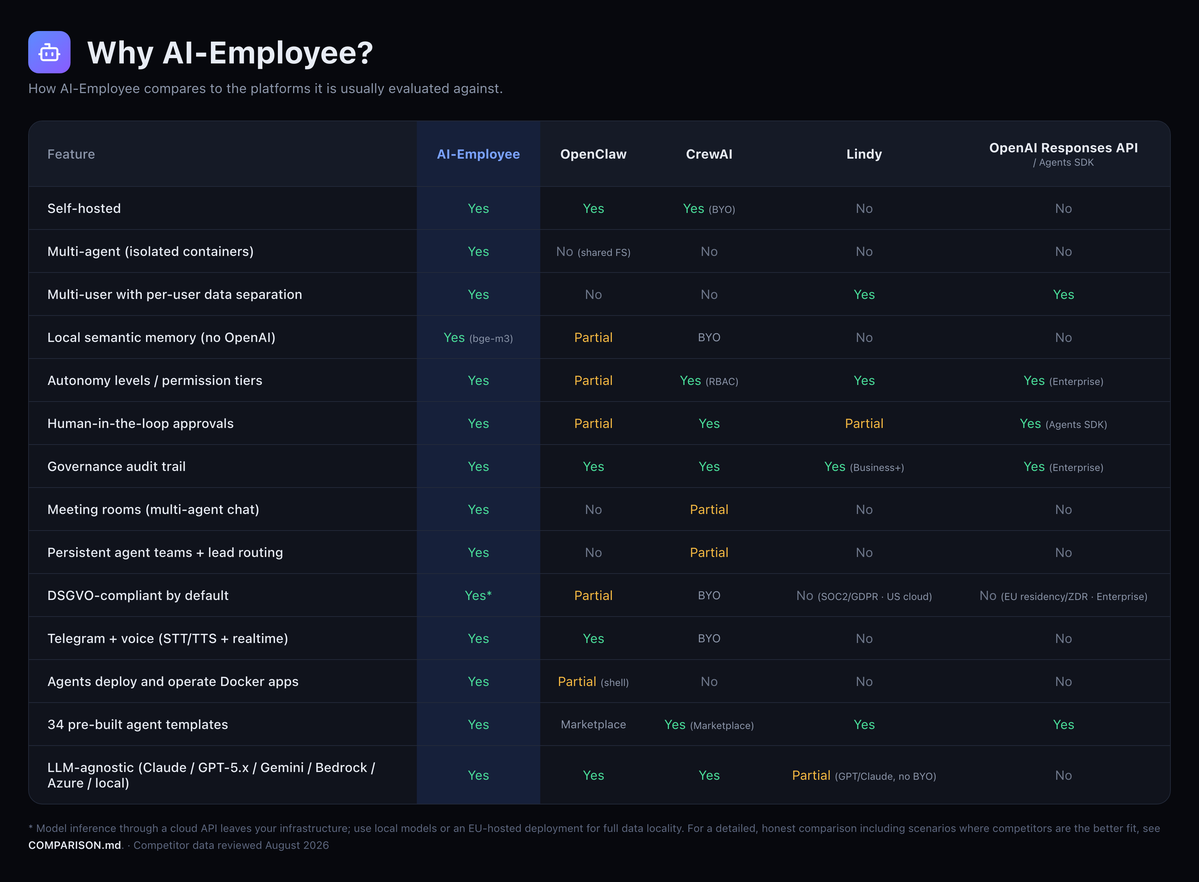
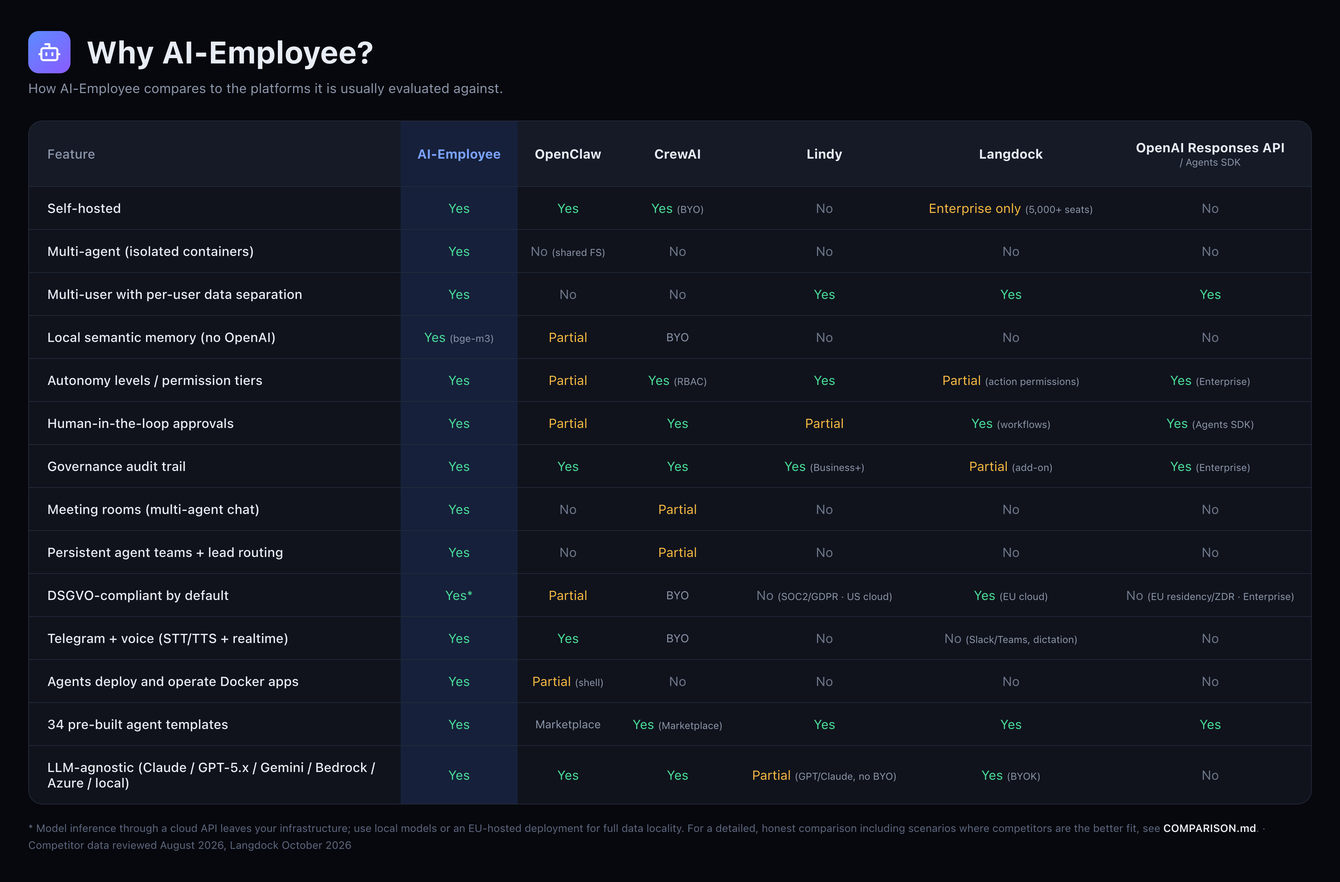
docs(vergleich): Langdock in Vergleichsdokument, README und Grafik aufgenommen; eigene Angaben berichtigt (v1.352.1)

diff --git a/docs/assets-src/comparison.html b/docs/assets-src/comparison.html
@@ -2,13 +2,13 @@
 <html lang="en"><head><meta charset="utf-8"><title>Why AI-Employee?</title>
 <link rel="stylesheet" href="base.css">
 <style>
-body{width:1700px}
+body{width:1900px}
 table{width:100%;border-collapse:separate;border-spacing:0;background:var(--panel);border:1px solid var(--line);border-radius:20px;overflow:hidden;font-size:18.5px}
 thead th{padding:26px 18px;font-weight:650;text-align:center;border-bottom:1px solid var(--line);background:var(--panel-2)}
 thead th:first-child{text-align:left;padding-left:26px;font-weight:500;color:var(--muted)}
 thead th.wir{color:var(--accent);background:var(--accent-bg)}
 thead small{display:block;font-weight:400;color:var(--muted);font-size:14px;margin-top:2px}
-tbody th{text-align:left;font-weight:450;padding:19px 26px;border-bottom:1px solid var(--line);width:34%}
+tbody th{text-align:left;font-weight:450;padding:19px 26px;border-bottom:1px solid var(--line);width:29%}
 td{text-align:center;padding:19px 14px;border-bottom:1px solid var(--line)}
 tbody tr:last-child th,tbody tr:last-child td{border-bottom:0}
 td.wir{background:var(--accent-bg)}
@@ -18,6 +18,6 @@ td small{color:var(--muted);font-size:14px}
 <body>
 <header><div class="mark"><svg viewBox="0 0 24 24"><path d="M12 8V4H8"/><rect width="16" height="12" x="4" y="8" rx="2"/><path d="M2 14h2"/><path d="M20 14h2"/><path d="M15 13v2"/><path d="M9 13v2"/></svg></div><h1>Why AI-Employee?</h1></header>
 <p class="sub">How AI-Employee compares to the platforms it is usually evaluated against.</p>
-<table><thead><tr><th>Feature</th><th class="wir">AI-Employee</th><th>OpenClaw</th><th>CrewAI</th><th>Lindy</th><th>OpenAI Responses API<small>/ Agents SDK</small></th></tr></thead><tbody><tr><th>Self-hosted</th><td class="y wir">Yes</td><td class="y">Yes</td><td class="y">Yes <small>(BYO)</small></td><td class="n">No</td><td class="n">No</td></tr><tr><th>Multi-agent (isolated containers)</th><td class="y wir">Yes</td><td class="n">No <small>(shared FS)</small></td><td class="n">No</td><td class="n">No</td><td class="n">No</td></tr><tr><th>Multi-user with per-user data separation</th><td class="y wir">Yes</td><td class="n">No</td><td class="n">No</td><td class="y">Yes</td><td class="y">Yes</td></tr><tr><th>Local semantic memory (no OpenAI)</th><td class="y wir">Yes <small>(bge-m3)</small></td><td class="p">Partial</td><td class="t">BYO</td><td class="n">No</td><td class="n">No</td></tr><tr><th>Autonomy levels / permission tiers</th><td class="y wir">Yes</td><td class="p">Partial</td><td class="y">Yes <small>(RBAC)</small></td><td class="y">Yes</td><td class="y">Yes <small>(Enterprise)</small></td></tr><tr><th>Human-in-the-loop approvals</th><td class="y wir">Yes</td><td class="p">Partial</td><td class="y">Yes</td><td class="p">Partial</td><td class="y">Yes <small>(Agents SDK)</small></td></tr><tr><th>Governance audit trail</th><td class="y wir">Yes</td><td class="y">Yes</td><td class="y">Yes</td><td class="y">Yes <small>(Business+)</small></td><td class="y">Yes <small>(Enterprise)</small></td></tr><tr><th>Meeting rooms (multi-agent chat)</th><td class="y wir">Yes</td><td class="n">No</td><td class="p">Partial</td><td class="n">No</td><td class="n">No</td></tr><tr><th>Persistent agent teams + lead routing</th><td class="y wir">Yes</td><td class="n">No</td><td class="p">Partial</td><td class="n">No</td><td class="n">No</td></tr><tr><th>DSGVO-compliant by default</th><td class="y wir">Yes*</td><td class="p">Partial</td><td class="t">BYO</td><td class="n">No <small>(SOC2/GDPR · US cloud)</small></td><td class="n">No <small>(EU residency/ZDR · Enterprise)</small></td></tr><tr><th>Telegram + voice (STT/TTS + realtime)</th><td class="y wir">Yes</td><td class="y">Yes</td><td class="t">BYO</td><td class="n">No</td><td class="n">No</td></tr><tr><th>Agents deploy and operate Docker apps</th><td class="y wir">Yes</td><td class="p">Partial <small>(shell)</small></td><td class="n">No</td><td class="n">No</td><td class="n">No</td></tr><tr><th>34 pre-built agent templates</th><td class="y wir">Yes</td><td class="t">Marketplace</td><td class="y">Yes <small>(Marketplace)</small></td><td class="y">Yes</td><td class="y">Yes</td></tr><tr><th>LLM-agnostic (Claude / GPT-5.x / Gemini / Bedrock / Azure / local)</th><td class="y wir">Yes</td><td class="y">Yes</td><td class="y">Yes</td><td class="p">Partial <small>(GPT/Claude, no BYO)</small></td><td class="n">No</td></tr></tbody></table>
-<p class="foot">* Model inference through a cloud API leaves your infrastructure; use local models or an EU-hosted deployment for full data locality. For a detailed, honest comparison including scenarios where competitors are the better fit, see <b>COMPARISON.md</b>. · Competitor data reviewed August 2026</p>
+<table><thead><tr><th>Feature</th><th class="wir">AI-Employee</th><th>OpenClaw</th><th>CrewAI</th><th>Lindy</th><th>Langdock</th><th>OpenAI Responses API<small>/ Agents SDK</small></th></tr></thead><tbody><tr><th>Self-hosted</th><td class="y wir">Yes</td><td class="y">Yes</td><td class="y">Yes <small>(BYO)</small></td><td class="n">No</td><td class="p">Enterprise only <small>(5,000+ seats)</small></td><td class="n">No</td></tr><tr><th>Multi-agent (isolated containers)</th><td class="y wir">Yes</td><td class="n">No <small>(shared FS)</small></td><td class="n">No</td><td class="n">No</td><td class="n">No</td><td class="n">No</td></tr><tr><th>Multi-user with per-user data separation</th><td class="y wir">Yes</td><td class="n">No</td><td class="n">No</td><td class="y">Yes</td><td class="y">Yes</td><td class="y">Yes</td></tr><tr><th>Local semantic memory (no OpenAI)</th><td class="y wir">Yes <small>(bge-m3)</small></td><td class="p">Partial</td><td class="t">BYO</td><td class="n">No</td><td class="n">No</td><td class="n">No</td></tr><tr><th>Autonomy levels / permission tiers</th><td class="y wir">Yes</td><td class="p">Partial</td><td class="y">Yes <small>(RBAC)</small></td><td class="y">Yes</td><td class="p">Partial <small>(action permissions)</small></td><td class="y">Yes <small>(Enterprise)</small></td></tr><tr><th>Human-in-the-loop approvals</th><td class="y wir">Yes</td><td class="p">Partial</td><td class="y">Yes</td><td class="p">Partial</td><td class="y">Yes <small>(workflows)</small></td><td class="y">Yes <small>(Agents SDK)</small></td></tr><tr><th>Governance audit trail</th><td class="y wir">Yes</td><td class="y">Yes</td><td class="y">Yes</td><td class="y">Yes <small>(Business+)</small></td><td class="p">Partial <small>(add-on)</small></td><td class="y">Yes <small>(Enterprise)</small></td></tr><tr><th>Meeting rooms (multi-agent chat)</th><td class="y wir">Yes</td><td class="n">No</td><td class="p">Partial</td><td class="n">No</td><td class="n">No</td><td class="n">No</td></tr><tr><th>Persistent agent teams + lead routing</th><td class="y wir">Yes</td><td class="n">No</td><td class="p">Partial</td><td class="n">No</td><td class="n">No</td><td class="n">No</td></tr><tr><th>DSGVO-compliant by default</th><td class="y wir">Yes*</td><td class="p">Partial</td><td class="t">BYO</td><td class="n">No <small>(SOC2/GDPR · US cloud)</small></td><td class="y">Yes <small>(EU cloud)</small></td><td class="n">No <small>(EU residency/ZDR · Enterprise)</small></td></tr><tr><th>Telegram + voice (STT/TTS + realtime)</th><td class="y wir">Yes</td><td class="y">Yes</td><td class="t">BYO</td><td class="n">No</td><td class="n">No <small>(Slack/Teams, dictation)</small></td><td class="n">No</td></tr><tr><th>Agents deploy and operate Docker apps</th><td class="y wir">Yes</td><td class="p">Partial <small>(shell)</small></td><td class="n">No</td><td class="n">No</td><td class="n">No</td><td class="n">No</td></tr><tr><th>34 pre-built agent templates</th><td class="y wir">Yes</td><td class="t">Marketplace</td><td class="y">Yes <small>(Marketplace)</small></td><td class="y">Yes</td><td class="y">Yes</td><td class="y">Yes</td></tr><tr><th>LLM-agnostic (Claude / GPT-5.x / Gemini / Bedrock / Azure / local)</th><td class="y wir">Yes</td><td class="y">Yes</td><td class="y">Yes</td><td class="p">Partial <small>(GPT/Claude, no BYO)</small></td><td class="y">Yes <small>(BYOK)</small></td><td class="n">No</td></tr></tbody></table>
+<p class="foot">* Model inference through a cloud API leaves your infrastructure; use local models or an EU-hosted deployment for full data locality. For a detailed, honest comparison including scenarios where competitors are the better fit, see <b>COMPARISON.md</b>. · Competitor data reviewed August 2026, Langdock October 2026</p>
 </body></html>

diff --git a/COMPARISON.md b/COMPARISON.md
@@ -1,6 +1,6 @@
 # AI-Employee vs. The Field
 
-> **Stand: 01.08.2026** — Feature-Matrix und Bewertungen entsprechen dem Entwicklungsstand zu diesem Datum. Star-Zahlen und Fremdprodukt-Details sind grobe Momentaufnahmen.
+> **Stand: 02.10.2026** — Feature-Matrix und Bewertungen entsprechen dem Entwicklungsstand zu diesem Datum (Langdock: Herstellerseiten und Dokumentation, abgerufen am 02.10.2026; übrige Fremdprodukte: 01.08.2026). Star-Zahlen und Fremdprodukt-Details sind grobe Momentaufnahmen.
 
 An honest, detailed comparison of AI-Employee against the most common alternatives. We believe comparisons should help you pick the *right* tool — not trick you into picking ours.
 
@@ -23,6 +23,7 @@ If you are evaluating AI agent platforms for:
 | **OpenClaw** | Messaging-first personal AI | Peter Steinberger | 60,000+ |
 | **CrewAI** | Python multi-agent framework | João Moura | 25,000+ |
 | **Lindy.ai** | Cloud no-code AI builder | Flo Crivello | Closed-source |
+| **Langdock** | EU cloud AI workspace (chat, agents, workflows) | Langdock GmbH (Berlin) | Closed-source |
 | **OpenAI Responses API / Agents SDK** | Cloud AI assistants (formerly GPTs / Assistants API — Assistants API shuts down 2026-08-26) | OpenAI | Closed-source |
 | **LangGraph** | Graph-based agent framework | LangChain Inc. | 9,000+ |
 | **AutoGen** | Multi-agent research framework | Microsoft Research | 35,000+ |
@@ -36,97 +37,97 @@ If you are evaluating AI agent platforms for:
 
 ### Core Architecture
 
-| Feature | AI-Employee | OpenClaw | CrewAI | Lindy | OpenAI | LangGraph | AutoGen | n8n |
-|---|:---:|:---:|:---:|:---:|:---:|:---:|:---:|:---:|
-| Self-hostable | Yes | Yes | Yes | **No** | **No** | Yes | Yes | Yes |
-| Open source | Source available | Yes | Yes (MIT) | **No** | **No** | Yes (MIT) | Yes (MIT) | Yes (Fair-Code) |
-| Multi-agent | Yes | **No** | Yes | Partial | Partial | Yes | Yes | No |
-| Persistent agent teams + lead-routing | **Yes** | No | Partial | No | No | Partial | Partial | No |
-| Docker isolation per agent | **Yes** | No (shared FS) | No | N/A | N/A | No | No | No |
-| Multi-user / team | Yes | Partial | No | Yes | Yes | No | No | Yes |
-| Cloud option available | Planned | Yes | Cloud only | Yes | Yes | No | No | Yes |
-| Runs fully offline | Yes (with local LLM) | Partial | Yes | No | No | Yes | Yes | Yes |
+| Feature | AI-Employee | OpenClaw | CrewAI | Lindy | Langdock | OpenAI | LangGraph | AutoGen | n8n |
+|---|:---:|:---:|:---:|:---:|:---:|:---:|:---:|:---:|:---:|
+| Self-hostable | Yes | Yes | Yes | **No** | Enterprise only (5,000+ seats) | **No** | Yes | Yes | Yes |
+| Open source | Source available | Yes | Yes (MIT) | **No** | **No** | **No** | Yes (MIT) | Yes (MIT) | Yes (Fair-Code) |
+| Multi-agent | Yes | **No** | Yes | Partial | Partial (agents as workflow steps) | Partial | Yes | Yes | No |
+| Persistent agent teams + lead-routing | **Yes** | No | Partial | No | No | No | Partial | Partial | No |
+| Docker isolation per agent | **Yes** | No (shared FS) | No | N/A | N/A | N/A | No | No | No |
+| Multi-user / team | Yes | Partial | No | Yes | Yes | Yes | No | No | Yes |
+| Cloud option available | Planned | Yes | Cloud only | Yes | Yes (EU) | Yes | No | No | Yes |
+| Runs fully offline | Yes (with local LLM) | Partial | Yes | No | No | No | Yes | Yes | Yes |
 
 ### LLM Support
 
-| Feature | AI-Employee | OpenClaw | CrewAI | Lindy | OpenAI | LangGraph | AutoGen | n8n |
-|---|:---:|:---:|:---:|:---:|:---:|:---:|:---:|:---:|
-| Claude (Anthropic) | Yes (native) | Yes | Yes | Yes | No | Yes | Yes | Yes |
-| OpenAI GPT-5.x (Codex) | Yes (native) | Yes | Yes | Yes | Yes | Yes | Yes | Yes |
-| Gemini | Yes | Yes | Yes | No | No | Yes | Yes | Yes |
-| Local models (Ollama) | Yes | Yes | Yes | No | No | Yes | Yes | Yes |
-| Multi-model per agent | Yes | No | Yes | No | No | Yes | Yes | No |
+| Feature | AI-Employee | OpenClaw | CrewAI | Lindy | Langdock | OpenAI | LangGraph | AutoGen | n8n |
+|---|:---:|:---:|:---:|:---:|:---:|:---:|:---:|:---:|:---:|
+| Claude (Anthropic) | Yes (native) | Yes | Yes | Yes | Yes | No | Yes | Yes | Yes |
+| OpenAI GPT-5.x (Codex) | Yes (native) | Yes | Yes | Yes | Yes | Yes | Yes | Yes | Yes |
+| Gemini | Yes | Yes | Yes | No | Yes | No | Yes | Yes | Yes |
+| Local models (Ollama) | Yes | Yes | Yes | No | Custom endpoints | No | Yes | Yes | Yes |
+| Multi-model per agent | Yes | No | Yes | No | Yes | No | Yes | Yes | No |
 
 ### Memory & Knowledge
 
-| Feature | AI-Employee | OpenClaw | CrewAI | Lindy | OpenAI | LangGraph | AutoGen | n8n |
-|---|:---:|:---:|:---:|:---:|:---:|:---:|:---:|:---:|
-| Semantic memory built-in | Yes | Yes | BYO | Yes | Yes | BYO | BYO | BYO |
-| Local embeddings (no cloud) | **Yes (bge-m3)** | Partial | BYO | No | No | BYO | BYO | BYO |
-| Knowledge base (Obsidian-style) | Yes | No | No | No | No | No | No | No |
-| Backlinks & tags | Yes | No | No | No | No | No | No | No |
-| Self-improvement loop | Yes | No | No | Partial | No | No | No | No |
-| Task rating feedback | Yes | No | No | No | No | No | No | No |
-| Per-user memory isolation | Yes | No | No | Yes | Yes | No | No | Partial |
+| Feature | AI-Employee | OpenClaw | CrewAI | Lindy | Langdock | OpenAI | LangGraph | AutoGen | n8n |
+|---|:---:|:---:|:---:|:---:|:---:|:---:|:---:|:---:|:---:|
+| Semantic memory built-in | Yes | Yes | BYO | Yes | Chat only (not in agents) | Yes | BYO | BYO | BYO |
+| Local embeddings (no cloud) | **Yes (bge-m3)** | Partial | BYO | No | No | No | BYO | BYO | BYO |
+| Knowledge base (Obsidian-style) | Yes | No | No | No | No (folders, knowledge bases) | No | No | No | No |
+| Backlinks & tags | Yes | No | No | No | No | No | No | No | No |
+| Self-improvement loop | Yes | No | No | Partial | No | No | No | No | No |
+| Task rating feedback | Yes | No | No | No | No | No | No | No | No |
+| Per-user memory isolation | Yes | No | No | Yes | Yes | Yes | No | No | Partial |
 
 ### Governance & Compliance
 
-| Feature | AI-Employee | OpenClaw | CrewAI | Lindy | OpenAI | LangGraph | AutoGen | n8n |
-|---|:---:|:---:|:---:|:---:|:---:|:---:|:---:|:---:|
-| Approval rules (natural language) | **Yes** | No | No | Partial | No | No | No | Partial |
-| Inline approvals (Telegram/UI) | Yes | No | No | No | No | No | No | No |
-| Audit log | Yes | Partial | No | Yes | Yes | No | No | Yes |
-| Multi-user with per-user data separation | **Yes** | No | No | Yes | Yes | No | No | Partial |
-| DSGVO / GDPR by default | Yes | Partial | BYO | No (US) | No (US) | BYO | BYO | Yes |
-| Data export / deletion endpoints | Yes | No | BYO | Partial | Partial | BYO | BYO | Yes |
-| Role-based access control (RBAC) | Yes | No | No | Yes | Yes | No | No | Yes |
+| Feature | AI-Employee | OpenClaw | CrewAI | Lindy | Langdock | OpenAI | LangGraph | AutoGen | n8n |
+|---|:---:|:---:|:---:|:---:|:---:|:---:|:---:|:---:|:---:|
+| Approval rules (natural language) | **Yes** | No | No | Partial | No | No | No | No | Partial |
+| Inline approvals (Telegram/UI) | Yes | No | No | No | Yes (UI, workflows) | No | No | No | No |
+| Audit log | Yes | Partial | No | Yes | Partial (analytics, governance add-on) | Yes | No | No | Yes |
+| Multi-user with per-user data separation | **Yes** | No | No | Yes | Yes | Yes | No | No | Partial |
+| DSGVO / GDPR by default | Yes | Partial | BYO | No (US) | Yes (EU cloud) | No (US) | BYO | BYO | Yes |
+| Data export / deletion endpoints | Yes | No | BYO | Partial | Partial (retention, usage export) | Partial | BYO | BYO | Yes |
+| Role-based access control (RBAC) | Yes | No | No | Yes | Yes | Yes | No | No | Yes |
 
 ### Integrations
 
-| Feature | AI-Employee | OpenClaw | CrewAI | Lindy | OpenAI | LangGraph | AutoGen | n8n |
-|---|:---:|:---:|:---:|:---:|:---:|:---:|:---:|:---:|
-| Telegram | Yes (per-agent bots) | Yes | BYO | No | No | BYO | BYO | Yes |
-| WhatsApp | Planned | Yes | BYO | Yes | No | BYO | BYO | Yes |
-| iMessage / SMS | Planned | Yes | BYO | Yes | No | BYO | BYO | Yes |
-| Voice STT/TTS | Yes | Yes | BYO | Yes | Yes | BYO | BYO | Partial |
-| Google Workspace OAuth | Yes | Partial | BYO | Yes | No | BYO | BYO | Yes |
-| Microsoft 365 OAuth | Yes | Partial | BYO | Yes | No | BYO | BYO | Yes |
-| MCP (Model Context Protocol) | Yes | Partial | No | No | No | No | No | No |
-| Pre-built integrations count | ~20 | ~40 | 0 (framework) | 3000+ | ~12 | 0 (framework) | 0 (framework) | 500+ |
+| Feature | AI-Employee | OpenClaw | CrewAI | Lindy | Langdock | OpenAI | LangGraph | AutoGen | n8n |
+|---|:---:|:---:|:---:|:---:|:---:|:---:|:---:|:---:|:---:|
+| Telegram | Yes (per-agent bots) | Yes | BYO | No | No | No | BYO | BYO | Yes |
+| WhatsApp | Yes | Yes | BYO | Yes | No | No | BYO | BYO | Yes |
+| iMessage / SMS | Planned | Yes | BYO | Yes | No | No | BYO | BYO | Yes |
+| Voice STT/TTS | Yes | Yes | BYO | Yes | Dictation only | Yes | BYO | BYO | Partial |
+| Google Workspace OAuth | Yes | Partial | BYO | Yes | Yes | No | BYO | BYO | Yes |
+| Microsoft 365 OAuth | Yes | Partial | BYO | Yes | Yes | No | BYO | BYO | Yes |
+| MCP (Model Context Protocol) | Yes | Partial | No | No | Yes (directory of 77 servers) | No | No | No | No |
+| Pre-built integrations count | ~20 | ~40 | 0 (framework) | 3000+ | 57 (754 actions) | ~12 | 0 (framework) | 0 (framework) | 500+ |
 
 ### UI / UX
 
-| Feature | AI-Employee | OpenClaw | CrewAI | Lindy | OpenAI | LangGraph | AutoGen | n8n |
-|---|:---:|:---:|:---:|:---:|:---:|:---:|:---:|:---:|
-| Web UI | Yes | Yes | No | Yes | Yes | Studio only | No (terminal) | Yes |
-| Chat interface | Yes | Yes (native) | No | Yes | Yes | No | No | No |
-| No-code builder | Partial | Yes | No | **Yes** | Yes | Partial | No | Yes |
-| Workflow canvas | Planned | No | No | Yes | No | Yes (graph) | No | **Yes** |
-| Mobile app | Via Telegram | Yes (iOS) | No | iOS/Android | Yes | No | No | Via web |
-| Dark mode | Yes | Yes | N/A | Yes | Yes | N/A | N/A | Yes |
+| Feature | AI-Employee | OpenClaw | CrewAI | Lindy | Langdock | OpenAI | LangGraph | AutoGen | n8n |
+|---|:---:|:---:|:---:|:---:|:---:|:---:|:---:|:---:|:---:|
+| Web UI | Yes | Yes | No | Yes | Yes | Yes | Studio only | No (terminal) | Yes |
+| Chat interface | Yes | Yes (native) | No | Yes | Yes (native) | Yes | No | No | No |
+| No-code builder | Partial | Yes | No | **Yes** | **Yes** | Yes | Partial | No | Yes |
+| Workflow canvas | Yes | No | No | Yes | **Yes** | No | Yes (graph) | No | **Yes** |
+| Mobile app | iOS (TestFlight) | Yes (iOS) | No | iOS/Android | iOS/Android, desktop | Yes | No | No | Via web |
+| Dark mode | Yes | Yes | N/A | Yes | Yes | Yes | N/A | N/A | Yes |
 
 ### Developer Experience
 
-| Feature | AI-Employee | OpenClaw | CrewAI | Lindy | OpenAI | LangGraph | AutoGen | n8n |
-|---|:---:|:---:|:---:|:---:|:---:|:---:|:---:|:---:|
-| Pre-built agent templates | **34** | Marketplace | Marketplace | ~50 | GPT Store | No | No | Templates |
-| Custom skills system | Yes | Plugins | Tools | No | Actions | Tools | Tools | Nodes |
-| Meeting rooms (multi-agent chat) | **Yes** | No | Partial | No | No | Partial | Yes | No |
-| Agent deploys Docker apps | **Yes** | No | No | No | No | No | No | No |
-| Python SDK | Yes | Yes | Yes (core) | No | Yes | Yes (core) | Yes (core) | No |
-| TypeScript SDK | Planned | Yes | No | No | Yes | Yes | No | No |
-| REST API | Yes | Yes | BYO | Yes | Yes | BYO | BYO | Yes |
-| Webhook support | Yes | Yes | BYO | Yes | Yes | BYO | BYO | Yes |
+| Feature | AI-Employee | OpenClaw | CrewAI | Lindy | Langdock | OpenAI | LangGraph | AutoGen | n8n |
+|---|:---:|:---:|:---:|:---:|:---:|:---:|:---:|:---:|:---:|
+| Pre-built agent templates | **34** | Marketplace | Marketplace | ~50 | ~35 | GPT Store | No | No | Templates |
+| Custom skills system | Yes | Plugins | Tools | No | Skills | Actions | Tools | Tools | Nodes |
+| Meeting rooms (multi-agent chat) | **Yes** | No | Partial | No | No | No | Partial | Yes | No |
+| Agent deploys Docker apps | **Yes** | No | No | No | No | No | No | No | No |
+| Python SDK | Yes | Yes | Yes (core) | No | No (REST) | Yes | Yes (core) | Yes (core) | No |
+| TypeScript SDK | Planned | Yes | No | No | No (REST) | Yes | Yes | No | No |
+| REST API | Yes | Yes | BYO | Yes | Yes | Yes | BYO | BYO | Yes |
+| Webhook support | Yes | Yes | BYO | Yes | Yes | Yes | BYO | BYO | Yes |
 
 ### Compliance
 
-| Feature | AI-Employee | OpenClaw | CrewAI | Lindy | OpenAI | LangGraph | AutoGen | n8n |
-|---|:---:|:---:|:---:|:---:|:---:|:---:|:---:|:---:|
-| DSGVO-ready | Yes | Partial | BYO | No | No | BYO | BYO | Yes |
-| SOC2 | In progress | No | No | Yes | Yes | No | No | Yes |
-| EU data residency | Yes (self-host) | Yes (self-host) | Yes (self-host) | US | US | Yes (self-host) | Yes (self-host) | Yes |
-| SSO / SAML | Planned | No | No | Yes (enterprise) | Yes | No | No | Yes (enterprise) |
-| On-prem deployment | Yes | Yes | Yes | No | No | Yes | Yes | Yes |
+| Feature | AI-Employee | OpenClaw | CrewAI | Lindy | Langdock | OpenAI | LangGraph | AutoGen | n8n |
+|---|:---:|:---:|:---:|:---:|:---:|:---:|:---:|:---:|:---:|
+| DSGVO-ready | Yes | Partial | BYO | No | Yes | No | BYO | BYO | Yes |
+| SOC2 | In progress | No | No | Yes | Yes (Type II), ISO 27001 | Yes | No | No | Yes |
+| EU data residency | Yes (self-host) | Yes (self-host) | Yes (self-host) | US | Yes (Azure EU) | US | Yes (self-host) | Yes (self-host) | Yes |
+| SSO / SAML | Yes (OIDC, SAML) | No | No | Yes (enterprise) | Yes (SCIM too) | Yes | No | No | Yes (enterprise) |
+| On-prem deployment | Yes | Yes | Yes | No | Enterprise only (5,000+ seats) | No | Yes | Yes | Yes |
 
 ---
 
@@ -194,6 +195,30 @@ If you are evaluating AI agent platforms for:
 **Choose Lindy if:** you are OK with US cloud, you want the best no-code UX, and compliance is not a blocker.
 
 **Choose AI-Employee if:** your data cannot leave your infrastructure or you need DSGVO compliance.
+
+### Langdock
+
+**What it is:** A German (Berlin) AI workspace delivered as EU-hosted SaaS: a company-wide chat with a choice of models, configurable agents, a visual workflow builder and a large integration library. It is the tool we are most often compared with in DACH, and it solves a different problem: giving every employee a governed AI chat, rather than running autonomous agents on your own infrastructure.
+
+**Pros:**
+- Rollout to a whole company in days — nothing to host, model usage included in the seat price (fair-use policy), BYOK possible
+- 57 native integrations with 754 actions, plus a curated directory of 77 remote MCP servers and a builder for custom integrations
+- Visual workflow builder with schedule, webhook and form triggers, code nodes and human-in-the-loop steps
+- Strong onboarding: agent templates, a conversational agent builder, prompt library
+- Native iOS, Android, macOS and Windows apps; Excel and Outlook add-ins; Slack and Teams bots
+- ISO 27001, SOC 2 Type II, SSO/SAML/SCIM, EU hosting on Azure
+
+**Cons:**
+- SaaS first: a dedicated deployment needs 2,000+ seats, your own cloud or on-premise 5,000+ seats (Enterprise)
+- Agents are configured assistants — instructions, knowledge and actions. Code runs in a short-lived sandbox for data analysis and file generation; there is no persistent machine per agent and no agent that builds, deploys and operates software
+- Memory works in regular chats only, not inside agents or projects
+- No persistent agent teams, delegation between agents or meeting rooms; multi-step work is modelled as a workflow
+- Priced per seat (EUR 25 per user and month; workflow volume and governance are add-ons), so cost follows headcount rather than the work done
+- Closed source
+
+**Choose Langdock if:** you want every employee to have a compliant AI chat with company knowledge and many ready-made connectors, and you do not want to operate anything yourself.
+
+**Choose AI-Employee if:** the platform has to run on your own servers at any company size, or you need agents that work on their own — with their own container, memory, schedules, teams and approval rules — instead of assistants that answer when asked.
 
 ### OpenAI Responses API / Agents SDK
 
@@ -297,6 +322,7 @@ We'd rather you pick the right tool than the wrong one:
 - **You are a solo hobbyist who wants the best iMessage/WhatsApp bot.** → Use **OpenClaw**.
 - **You want a pure Python framework to embed in your own SaaS.** → Use **CrewAI** or **LangGraph**.
 - **You want a no-code cloud tool with 3000 integrations and don't care about data residency.** → Use **Lindy**.
+- **You want an EU-hosted AI chat for the whole company with ready-made connectors and nothing to operate.** → Use **Langdock**.
 - **You are fully committed to OpenAI and want the GPT Store.** → Use **OpenAI's Responses API / Agents SDK**.
 - **You are doing academic research on multi-agent conversation patterns.** → Use **AutoGen**.
 - **You need workflow automation with AI as one step among many.** → Use **n8n**.

diff --git a/README.md b/README.md
@@ -52,30 +52,30 @@ It is built for **small and medium-sized businesses and regulated organisations 
 How AI-Employee compares to the platforms it is usually evaluated against:
 
 <p align="center">
-  <img src="docs/assets/comparison.png" alt="Feature comparison: AI-Employee vs OpenClaw, CrewAI, Lindy, OpenAI Agents SDK" width="960">
+  <img src="docs/assets/comparison.png" alt="Feature comparison: AI-Employee vs OpenClaw, CrewAI, Lindy, Langdock, OpenAI Agents SDK" width="960">
 </p>
 
 <details>
 <summary>Same comparison as a table</summary>
 
-| Feature | AI-Employee | OpenClaw | CrewAI | Lindy | OpenAI Responses API / Agents SDK |
-|---|:---:|:---:|:---:|:---:|:---:|
-| Self-hosted | Yes | Yes | Yes (BYO) | No | No |
-| Multi-agent (isolated containers) | Yes | No (shared FS) | No | No | No |
-| Multi-user with per-user data separation | Yes | No | No | Yes | Yes |
-| Local semantic memory (no OpenAI) | Yes (bge-m3) | Partial | BYO | No | No |
-| Autonomy levels / permission tiers | Yes | Partial | Yes (RBAC) | Yes | Yes (Enterprise) |
-| Human-in-the-loop approvals | Yes | Partial | Yes | Partial | Yes (Agents SDK) |
-| Governance audit trail | Yes | Yes | Yes | Yes (Business+) | Yes (Enterprise) |
-| Meeting rooms (multi-agent chat) | Yes | No | Partial | No | No |
-| Persistent agent teams + lead routing | Yes | No | Partial | No | No |
-| DSGVO-compliant by default | Yes* | Partial | BYO | No (SOC2/GDPR, US cloud) | No (EU residency/ZDR on Enterprise) |
-| Telegram + voice (STT/TTS + realtime) | Yes | Yes | BYO | No | No |
-| Agents deploy and operate Docker apps | Yes | Partial (shell) | No | No | No |
-| 34 pre-built agent templates | Yes | Marketplace | Yes (Marketplace) | Yes | Yes |
-| LLM-agnostic (Claude / GPT-5.x / Gemini / Bedrock / Azure / local) | Yes | Yes | Yes | Partial (GPT/Claude, no BYO) | No |
+| Feature | AI-Employee | OpenClaw | CrewAI | Lindy | Langdock | OpenAI Responses API / Agents SDK |
+|---|:---:|:---:|:---:|:---:|:---:|:---:|
+| Self-hosted | Yes | Yes | Yes (BYO) | No | Enterprise only (5,000+ seats) | No |
+| Multi-agent (isolated containers) | Yes | No (shared FS) | No | No | No | No |
+| Multi-user with per-user data separation | Yes | No | No | Yes | Yes | Yes |
+| Local semantic memory (no OpenAI) | Yes (bge-m3) | Partial | BYO | No | No | No |
+| Autonomy levels / permission tiers | Yes | Partial | Yes (RBAC) | Yes | Partial (action permissions) | Yes (Enterprise) |
+| Human-in-the-loop approvals | Yes | Partial | Yes | Partial | Yes (workflows) | Yes (Agents SDK) |
+| Governance audit trail | Yes | Yes | Yes | Yes (Business+) | Partial (add-on) | Yes (Enterprise) |
+| Meeting rooms (multi-agent chat) | Yes | No | Partial | No | No | No |
+| Persistent agent teams + lead routing | Yes | No | Partial | No | No | No |
+| DSGVO-compliant by default | Yes* | Partial | BYO | No (SOC2/GDPR, US cloud) | Yes (EU cloud) | No (EU residency/ZDR on Enterprise) |
+| Telegram + voice (STT/TTS + realtime) | Yes | Yes | BYO | No | No (Slack/Teams, dictation) | No |
+| Agents deploy and operate Docker apps | Yes | Partial (shell) | No | No | No | No |
+| 34 pre-built agent templates | Yes | Marketplace | Yes (Marketplace) | Yes | Yes | Yes |
+| LLM-agnostic (Claude / GPT-5.x / Gemini / Bedrock / Azure / local) | Yes | Yes | Yes | Partial (GPT/Claude, no BYO) | Yes (BYOK) | No |
 
-\* Model inference through a cloud API leaves your infrastructure. Use local models or an EU-hosted deployment for full data locality. Competitor data was last reviewed in August 2026.
+\* Model inference through a cloud API leaves your infrastructure. Use local models or an EU-hosted deployment for full data locality. Competitor data was last reviewed in August 2026, Langdock in October 2026.
 
 </details>
 

diff --git a/CHANGELOG.md b/CHANGELOG.md
@@ -5,6 +5,19 @@ Format: [Keep a Changelog](https://keepachangelog.com/en/1.0.0/) · Versioning: 
 
 ---
 
+## [1.352.1] - 2026-10-02
+
+### Dokumentation
+- **Vergleich um Langdock erweitert.** `COMPARISON.md` führt die Plattform jetzt
+  in allen Tabellen und mit einer eigenen Einzelbetrachtung, die Übersicht in
+  der README und die Vergleichsgrafik ebenfalls. Grundlage sind Herstellerseiten
+  und Dokumentation mit Stand 02.10.2026.
+- Eigene Angaben im Vergleich gegen den Code berichtigt: WhatsApp, die
+  Workflow-Fläche, die iOS-App und die Anmeldung über OIDC und SAML standen noch
+  als „geplant“ oder fehlten.
+
+---
+
 ## [1.352.0] - 2026-10-01
 
 ### Neu
